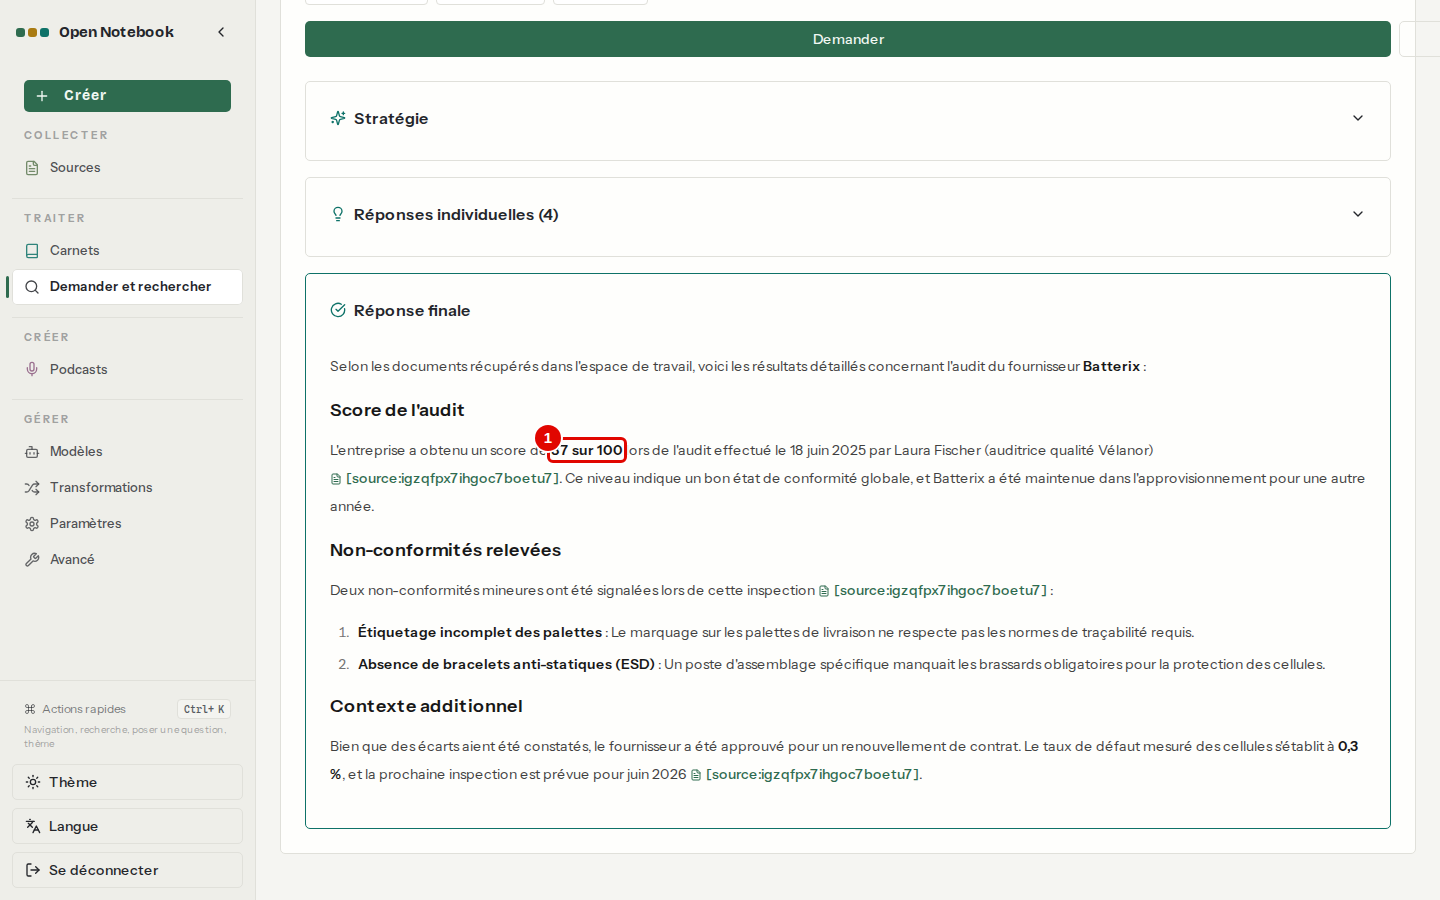
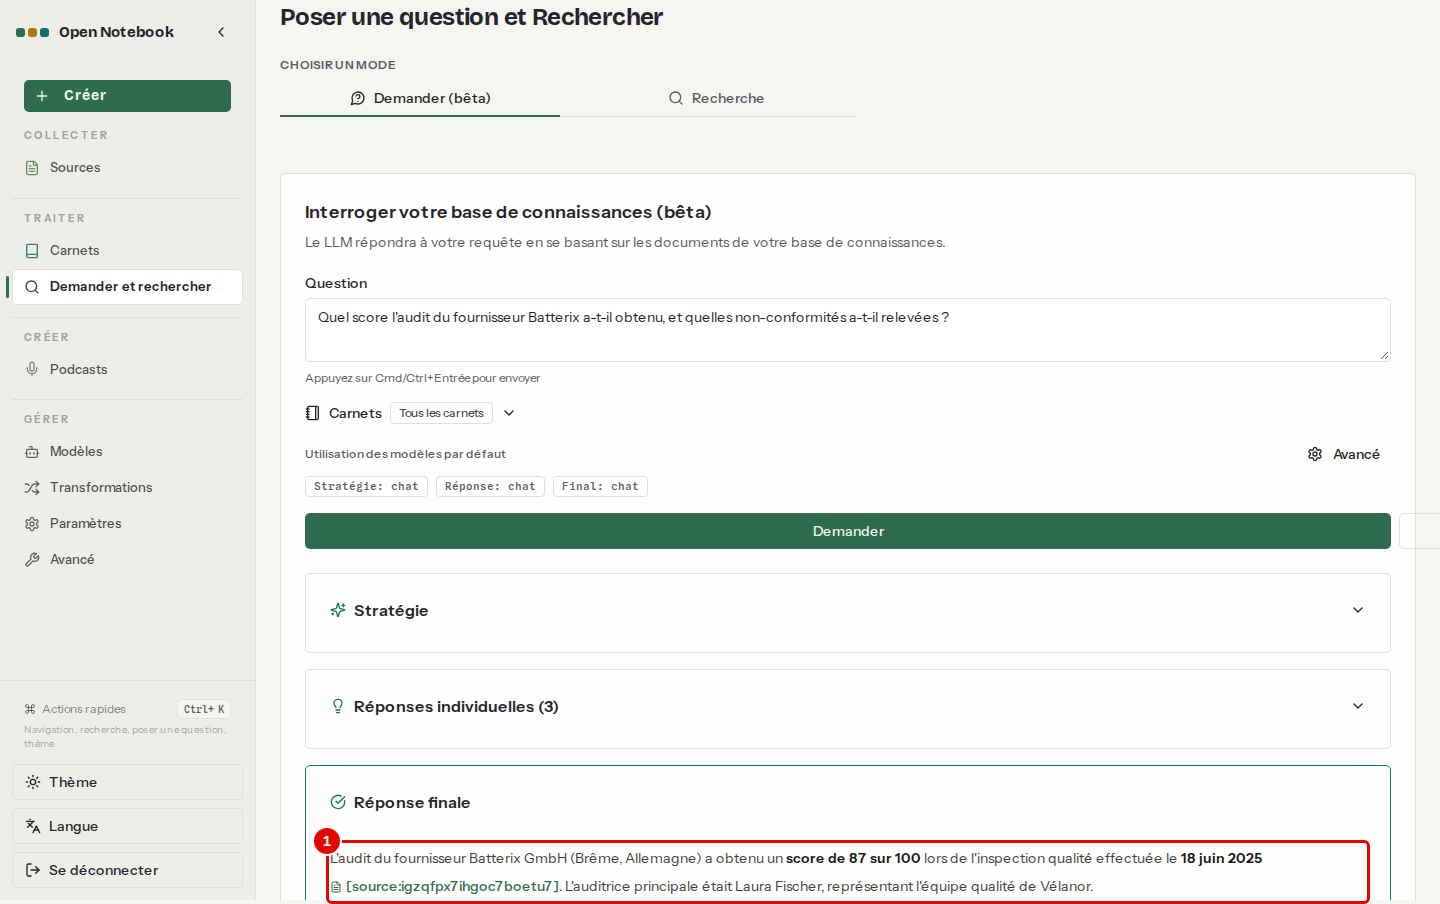
Open Notebook : manuel corrigé après la huitième relecture novice (3 remarques), capture de « Demander » reprise

diff --git a/outils/open-notebook/captures/manuel.py b/outils/open-notebook/captures/manuel.py
@@ -615,7 +615,8 @@ def rechercher(s):
             break
     pg.wait_for_timeout(4000)
     print("demander :", pg.locator("main").inner_text()[-1200:].replace("\n", "|"), flush=True)
-    s.ecran("04-reponse-demander", [(pg.get_by_text(re.compile("87")).last, "Réponse")], plein=True)
+    par = pg.get_by_text(re.compile("87")).last.locator("xpath=ancestor-or-self::*[self::p or self::li][1]")
+    s.ecran("04-reponse-demander", [(par, "Réponse")], plein=True)
 
 
 # ---------------------------------------------------------------- 10. Régler

diff --git a/docs/open-notebook/manuel/02-installer-open-notebook.md b/docs/open-notebook/manuel/02-installer-open-notebook.md
@@ -38,7 +38,7 @@ outils/communs/diagnostic.sh
 
 **Étape 2. Vérifier que le service LLM central répond**
 *Où* : même terminal.
-Le service central doit tourner avant Open Notebook. Il s'installe à part, depuis son propre dépôt (LLM-Service), qui a son mode d'emploi ; ce manuel suppose qu'il est installé dans `~/mes_projets/Projet-IA/LLM-Service` (chemin à adapter s'il est ailleurs). Sa clé se trouve dans le fichier `.env` à la racine du dépôt : copier `.env.example` en `.env`, puis y recopier, sur la ligne `LLM_CENTRAL_KEY=`, la valeur de `LITELLM_MASTER_KEY` du fichier `.env` du dépôt LLM-Service (`~/mes_projets/Projet-IA/LLM-Service/.env`). Ce fichier n'est jamais publié. La commande suivante liste les modèles du service, puis fait un essai réel de chacun :
+Le service central doit tourner avant Open Notebook. Il s'installe à part, depuis son propre dépôt, https://github.com/floSa/LLM-Service, dont le fichier README sert de mode d'emploi (par exemple `git clone https://github.com/floSa/LLM-Service.git ~/mes_projets/Projet-IA/LLM-Service`) ; ce manuel suppose qu'il est installé dans `~/mes_projets/Projet-IA/LLM-Service` (chemin à adapter s'il est ailleurs). Sa clé se trouve dans le fichier `.env` à la racine du dépôt : copier `.env.example` en `.env`, puis y recopier, sur la ligne `LLM_CENTRAL_KEY=`, la valeur de `LITELLM_MASTER_KEY` du fichier `.env` du dépôt LLM-Service (`~/mes_projets/Projet-IA/LLM-Service/.env`). Ce fichier n'est jamais publié. La commande suivante liste les modèles du service, puis fait un essai réel de chacun :
 
 ```bash
 outils/communs/llm_central_sante.sh --essai

diff --git a/docs/open-notebook/manuel/04-premiere-question.md b/docs/open-notebook/manuel/04-premiere-question.md
@@ -58,7 +58,7 @@ La page a trois colonnes : SOURCES (les documents), NOTES (ce qu'on garde) et DI
 
 **Étape 5. Choisir le fichier**
 *Où* : assistant, étape 1 « Ajouter la source ».
-Cliquer sur l'onglet « Télécharger un fichier », puis choisir `faq-sav.html` dans la fenêtre de l'explorateur de fichiers de Windows. Le fichier est dans le dépôt, côté Linux : dans la barre d'adresse de l'explorateur, taper `\\wsl$\Ubuntu\home\<utilisateur>\Open-Notebook-Test-Bench\corpus\documents` (remplacer `<utilisateur>` par le nom d'utilisateur Ubuntu).
+Cliquer sur l'onglet « Télécharger un fichier », puis sur « Choose Files » (zone 2, libellé en anglais) : la fenêtre de l'explorateur de fichiers de Windows s'ouvre ; y choisir `faq-sav.html`. Le fichier est dans le dépôt, côté Linux : dans la barre d'adresse de l'explorateur, taper `\\wsl$\Ubuntu\home\<utilisateur>\Open-Notebook-Test-Bench\corpus\documents` (remplacer `<utilisateur>` par le nom d'utilisateur Ubuntu).
 
 ![Assistant, étape 1 : choix du fichier](../img/04-premiere-question/04-assistant-fichier.png)
 *Écran : assistant « Ajouter une nouvelle source », étape 1, onglet « Télécharger un fichier ».*

diff --git a/docs/open-notebook/manuel/08-rechercher-et-demander.md b/docs/open-notebook/manuel/08-rechercher-et-demander.md
@@ -63,7 +63,7 @@ La page ouverte par le lien « Demander et rechercher » s'intitule « Poser une
 
 | N° | Élément | Rôle |
 |---|---|---|
-| 1 | Score dans la réponse | « 87 » : la réponse, sous « Réponse finale », donne le score de 87 sur 100, l'étiquetage incomplet des palettes et la protection antistatique manquante, avec ses citations |
+| 1 | Réponse | premier paragraphe sous « Réponse finale » : « score de 87 sur 100 », avec sa citation ; la suite cite les non-conformités (étiquetage incomplet des palettes, protection antistatique manquante) |
 
 *Résultat* : la réponse arrive après plusieurs appels au modèle, plus lentement qu'une question dans un carnet ; elle s'appuie sur les passages trouvés, pas sur des documents entiers.
 
